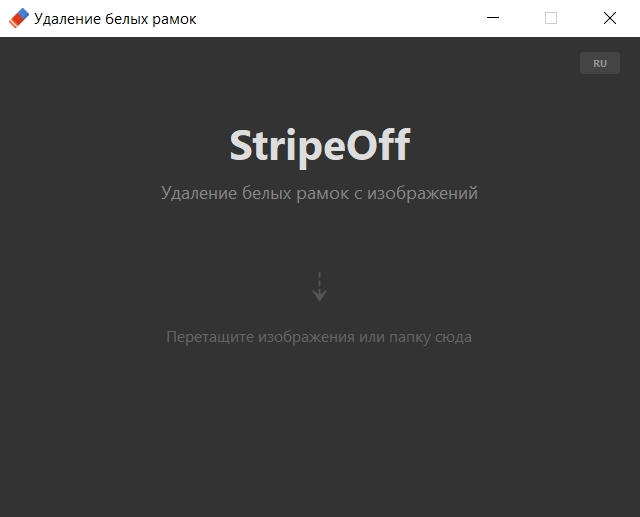
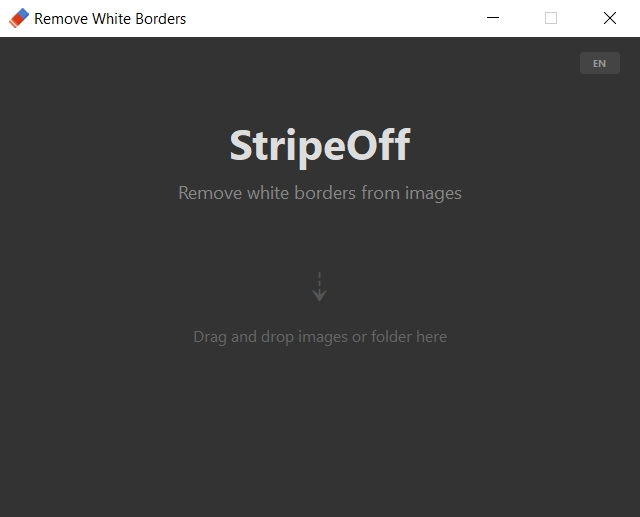
Add 'How It Works' section to README and update screenshot
Explain the white border detection algorithm: pixel threshold,
edge scanning, and minimum border requirements.

diff --git a/README.md b/README.md
@@ -12,6 +12,17 @@
 - Processing history with progress display
 - Supported formats: PNG, JPG, JPEG, BMP, WebP
 
+## How It Works
+
+The app uses OpenCV to detect and remove white borders:
+
+1. **White pixel detection** — a pixel is considered white if all RGB channels are ≥ 250
+2. **Border scanning** — the algorithm scans from each edge (top, bottom, left, right) to find the first non-white row/column
+3. **Minimum threshold** — borders narrower than 5 pixels are ignored to avoid false positives
+4. **Cropping** — the image is cropped to the detected content boundaries
+
+This approach is fast and works well with scanned documents, screenshots, and images with uniform white margins.
+
 ## How to Use
 
 1. Run `remove_borders_app.py`
